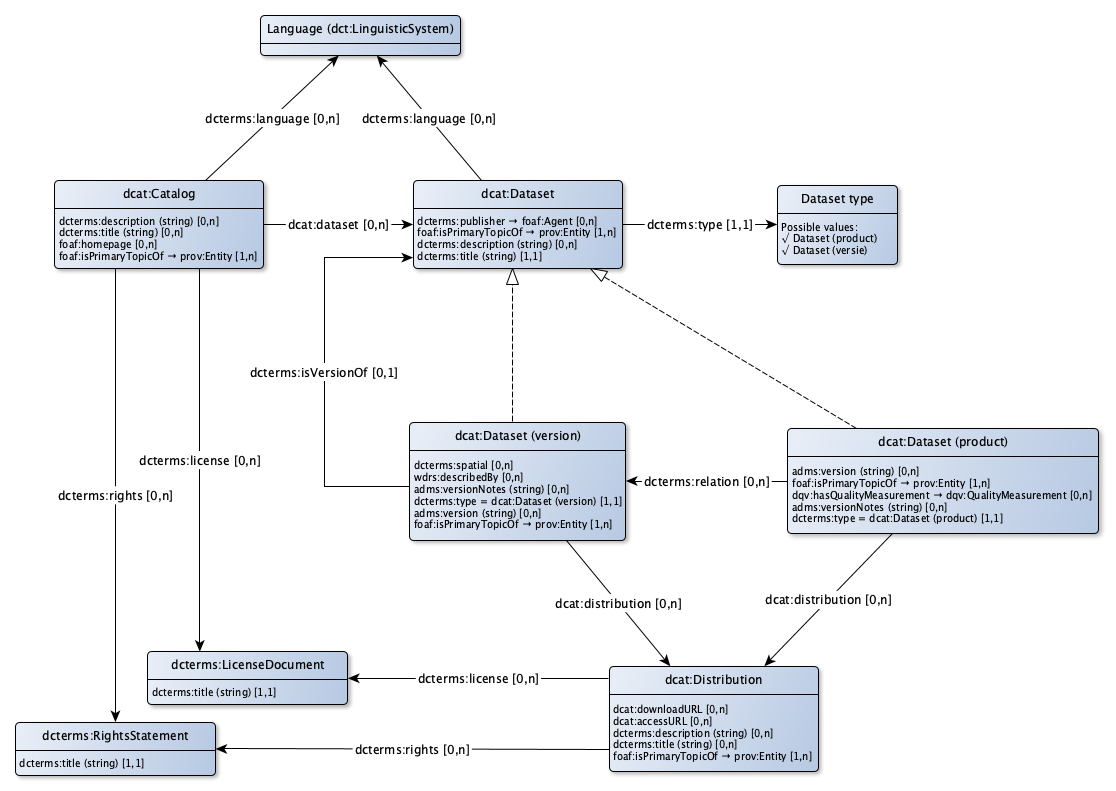
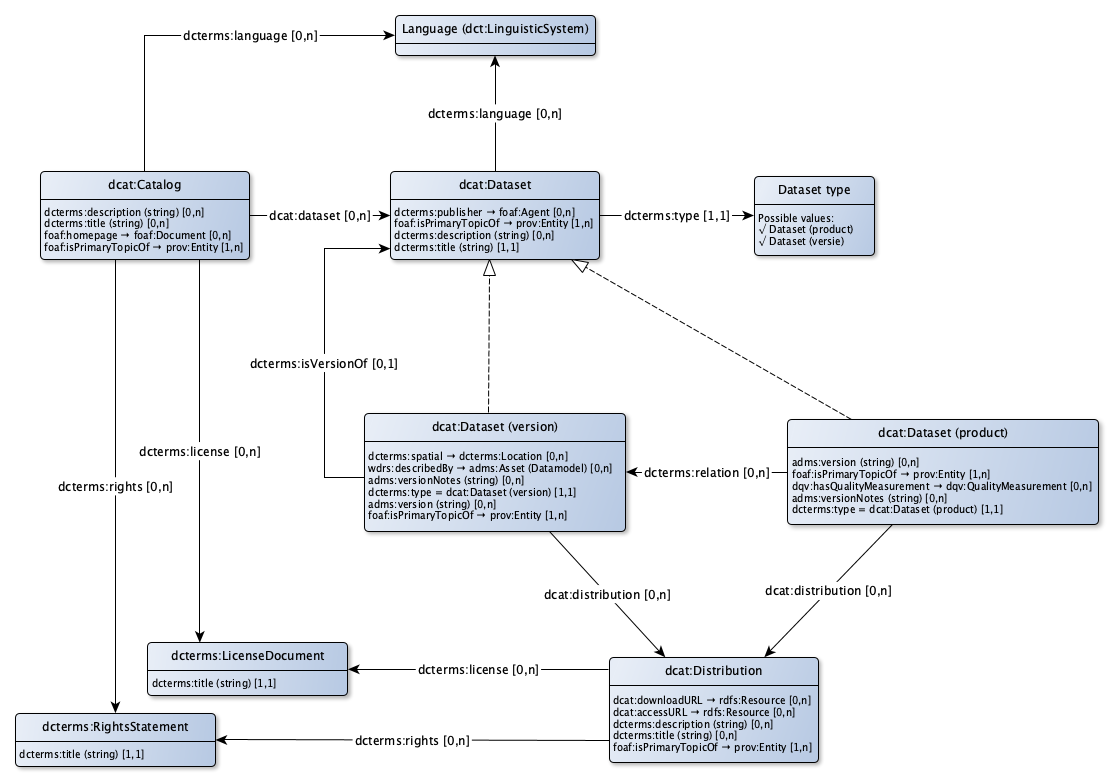
Update dcat

diff --git a/model/dcat-ap-sc.md b/model/dcat-ap-sc.md
@@ -117,6 +117,7 @@ Een dataset is eigenlijk alles wat je een dataset noemt. Dat geeft de ruimte om 
 |!form data!Eigenschap|beschreven door
 |----------|------
 |Gebruikte term|[wdrs:describedBy](http://www.w3.org/2007/05/powder-s#describedBy)
+|Relatie met|[Datamodel](http://bp4mc2.org/profiles/dcat-ap-sc#Datamodel)
 |Uitleg|De data in een dataset (version) is beschreven door een informatiemodel.
 |Voorbeeld|kadaster.nl/schemas/imkad
 
@@ -130,7 +131,7 @@ Een dataset is eigenlijk alles wat je een dataset noemt. Dat geeft de ruimte om 
 |!form data!Eigenschap|geografische afbakening
 |----------|------
 |Gebruikte term|[dcterms:spatial](http://purl.org/dc/terms/spatial)
-|Verwijst naar|[http://purl.org/dc/terms/Location](http://purl.org/dc/terms/Location)
+|Verwijst naar|[dcterms:Location](http://purl.org/dc/terms/Location)
 |Uitleg|Het gebied waar de dataset over gaat kan worden gespecificeerd.
 |Voorbeeld|de link naar de aanduiding voor de gemeente Apeldoorn
 
@@ -176,7 +177,7 @@ Een dataset is eigenlijk alles wat je een dataset noemt. Dat geeft de ruimte om 
 |Gebruikte term|[adms:version](http://www.w3.org/ns/adms#version)
 |Datatype|[Tekst](http://www.w3.org/2001/XMLSchema#string)
 |Uitleg|Een dataset (product) kan een versie aanduiding hebben.
-|Voorbeeld|2.1.0, 2.1.0
+|Voorbeeld|2.1.0
 
 |!form data!Eigenschap|versie notities
 |----------|------
@@ -266,6 +267,7 @@ Een dataset is eigenlijk alles wat je een dataset noemt. Dat geeft de ruimte om 
 |!form data!Eigenschap|webpagina
 |----------|------
 |Gebruikte term|[foaf:homepage](http://xmlns.com/foaf/0.1/homepage)
+|Verwijst naar|[foaf:Document](http://xmlns.com/foaf/0.1/Document)
 |Uitleg|De webpagina via welke de catalogus vindbaar is kan worden gespecificeerd.
 |Voorbeeld|http://catalogus.kadaster.nl/
 
@@ -331,12 +333,14 @@ Een dataset is eigenlijk alles wat je een dataset noemt. Dat geeft de ruimte om 
 |!form data!Eigenschap|toegangs url
 |----------|------
 |Gebruikte term|[dcat:accessURL](http://www.w3.org/ns/dcat#accessURL)
+|Verwijst naar|[rdfs:Resource](http://www.w3.org/2000/01/rdf-schema#Resource)
 |Uitleg|Een distributie kan een API zijn of een webservice die toegankelijk is via een url.
 |Voorbeeld|https://data.pdok.nl/brk/api/v1
 
 |!form data!Eigenschap|download url
 |----------|------
 |Gebruikte term|[dcat:downloadURL](http://www.w3.org/ns/dcat#downloadURL)
+|Verwijst naar|[rdfs:Resource](http://www.w3.org/2000/01/rdf-schema#Resource)
 |Uitleg|Een distributie kan een downloadservice zijn die toegankelijk is via een url.
 |Voorbeeld|https://www.pdok.nl/nl/producten/pdok-downloads/basis-registratie-kadaster/kadastrale-kaart
 

diff --git a/model/en/dcat-ap-sc.md b/model/en/dcat-ap-sc.md
@@ -109,6 +109,7 @@ A dataset is actually everything you call a dataset. A dataset is not defined sh
 |!form data!Eigenschap|described by
 |----------|------
 |Used term|[wdrs:describedBy](http://www.w3.org/2007/05/powder-s#describedBy)
+|Related with|[Datamodel](http://bp4mc2.org/profiles/dcat-ap-sc#Datamodel)
 |Description|The data in a dataset (version) is decribed by a data model.
 |Example|kadaster.nl/schemas/imkad
 
@@ -121,7 +122,7 @@ A dataset is actually everything you call a dataset. A dataset is not defined sh
 |!form data!Eigenschap|geographical demarcation
 |----------|------
 |Used term|[dcterms:spatial](http://purl.org/dc/terms/spatial)
-|Refers to|[http://purl.org/dc/terms/Location](http://purl.org/dc/terms/Location)
+|Refers to|[dcterms:Location](http://purl.org/dc/terms/Location)
 |Description|The area the dataset is about can be recorded.
 
 |!form data!Eigenschap|provenance
@@ -245,6 +246,7 @@ A dataset is actually everything you call a dataset. A dataset is not defined sh
 |!form data!Eigenschap|landing page
 |----------|------
 |Used term|[foaf:homepage](http://xmlns.com/foaf/0.1/homepage)
+|Refers to|[foaf:Document](http://xmlns.com/foaf/0.1/Document)
 |Description|De landing page on which the catalog can be found can be recorded.
 |Example|http://catalogus.kadaster.nl/
 
@@ -305,11 +307,13 @@ A dataset is actually everything you call a dataset. A dataset is not defined sh
 |!form data!Eigenschap|access url
 |----------|------
 |Used term|[dcat:accessURL](http://www.w3.org/ns/dcat#accessURL)
+|Refers to|[rdfs:Resource](http://www.w3.org/2000/01/rdf-schema#Resource)
 |Description|A distribution can be an API or a web service that is accesable via a url.
 
 |!form data!Eigenschap|download url
 |----------|------
 |Used term|[dcat:downloadURL](http://www.w3.org/ns/dcat#downloadURL)
+|Refers to|[rdfs:Resource](http://www.w3.org/2000/01/rdf-schema#Resource)
 |Description|A distribution can be a download service that is accesable via a url
 
 |!form data!Eigenschap|license
